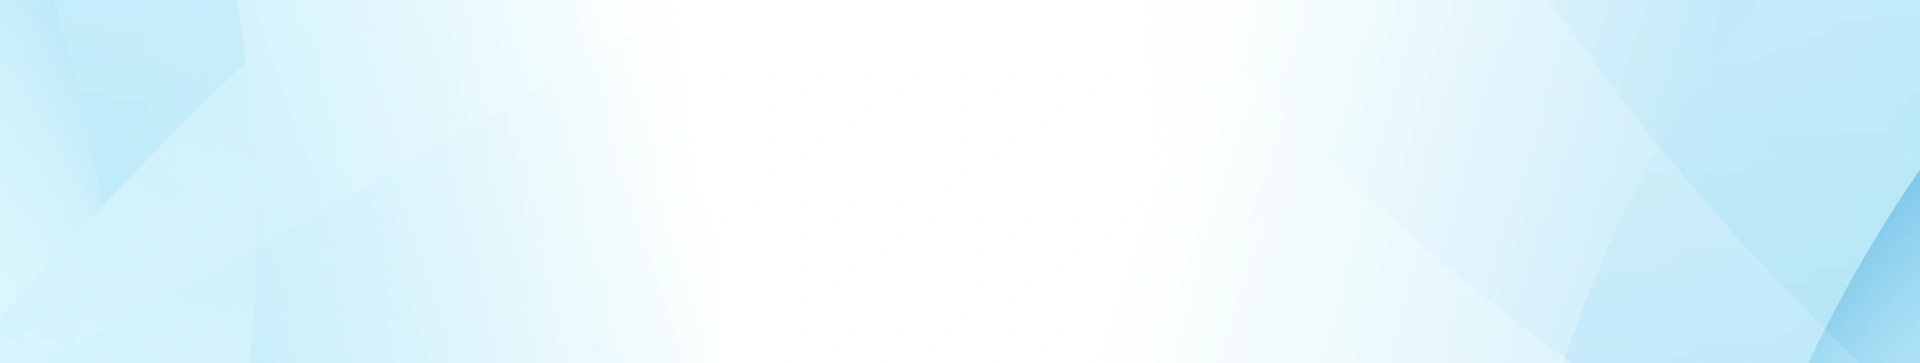
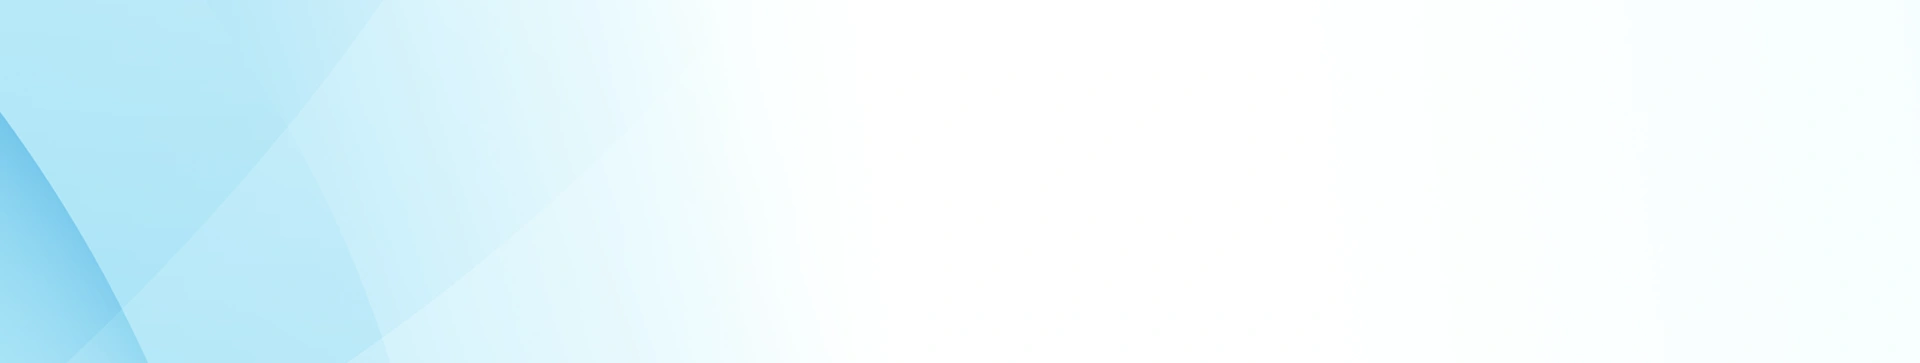
add

diff --git a/index.html b/index.html
@@ -16,20 +16,19 @@
   <link rel="preload" as="image" href="images/BFIT-logo.webp" /> </head>
 <body>
   <section class="banner-section-cls">
-    <div class="container-fluid">
-      <div class="row align-items-end">
-        <div class="col-md-9 mx-auto">
-          <div class="row">
-            <div class="col-md-6 align-self-end order-md-first order-last pt-md-2 pt-0">
-              <picture> <img src="images/banner-model.webp" alt="doctor-banner-model" class="img-fluid pt-3" width="677" height="352" /> </picture>
-            </div>
-            <div class="col-md-6 align-self-center">
+    <div class="container-fluid pr-0 pl-0">
+       <div class="row">
+             <div class="col-md-4 offset-md-2  align-self-center text-center">
               <h1 class="banner_h1_heding"><span>HEALING</span> PEOPLE <br />
                 Changing <span>Lives</span>
               </h1> </div>
+            <div class="col-md-6 align-self-end">
+              <picture> 
+                <img src="images/banner-model-new.webp" alt="doctor-banner-model" class="img-fluid  d-none d-md-block" width="" height="" /> 
+                <img src="images/banner-model-new-mob.webp" alt="doctor-banner-model" class="img-fluid d-block d-md-none" width="" height="" />
+              </picture>
+            </div>
           </div>
-        </div>
-      </div>
     </div>
   </section>
   <section class="real_result_sec_pad">

diff --git a/css/style-new.css b/css/style-new.css
@@ -45,8 +45,8 @@ p{margin-bottom:0;color:#212121;font-weight:400}
 .banner_h1_heding{font-size:38px;text-transform:uppercase;color:#414042;font-weight:600;margin-bottom:0}
 }
 @media (max-width:600px){
-.banner-section-cls{background:url(../images/banner_bg_mob.webp) bottom center no-repeat;background-size:cover}
-.banner_h1_heding{padding-top:25px;text-align:center;font-size:30px;text-transform:uppercase;color:#414042;font-weight:600;margin-bottom:0}
+.banner-section-cls{background:url(../images/banner_bg_mob_new.webp) bottom center no-repeat;background-size:cover}
+.banner_h1_heding{padding-top:45px;text-align:center;font-size:30px;text-transform:uppercase;color:#414042;font-weight:600;margin-bottom:0}
 }
 
 /*==========================================*/
